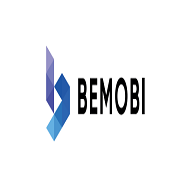
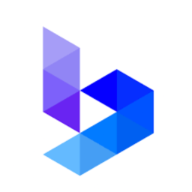
alteração dos icones

Changed region(s): [[0.2188, 0.125, 0.8125, 0.9375]]

diff --git a/index.html b/index.html
@@ -1,7 +1,7 @@
 <!DOCTYPE html>
 <html>
 <head>
-	<link rel="sortcut icon" href="/img/favicon.png" type="image/png" />
+	<link rel="sortcut icon" href="/img/favicon.ico" type="image/x-icon" />
 	<link rel="sortcut icon" href="/img/favicon-16x16.png" type="image/png" />
 	<link rel="sortcut icon" href="/img/favicon-32x32.png" type="image/png" />
 	<link rel="sortcut icon" href="/img/android-chrome-192x192.png" type="image/png" />
